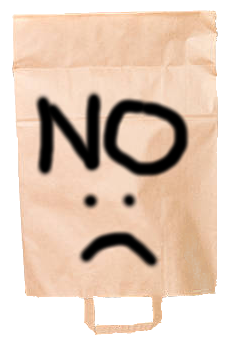
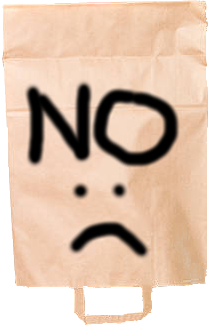
playable on laptop screens, css modified

diff --git a/src/components/board/board.css b/src/components/board/board.css
@@ -12,10 +12,10 @@ background-color: white;
 grid-template-columns: 12.5% 12.5% 12.5% 12.5% 12.5% 12.5% 12.5% 12.5%;
 grid-template-rows: 20% 20% 20% 20% 20%;
 width: 50vw;
-height: 530px;
+height: 60vh;
 align-items: center;
 justify-content: center;
-font-size: 50px;
+font-size: 40px;
 margin: 0 auto;
 z-index: 4;
 /* margin: 20px; */
@@ -43,7 +43,7 @@ z-index: 4;
   grid-row: 3 / 4;
   /* justify-self: ; */
   /* align-self: ; */
-  font-size: 80px;
+  font-size: 60px;
   color: green;
 }
 
@@ -53,7 +53,7 @@ z-index: 4;
   justify-self: start;
   align-self: end;
   color: magenta;
-  font-size: 80px;
+  font-size: 60px;
 }
 
 .board-num-4 {
@@ -62,7 +62,7 @@ z-index: 4;
   justify-self: start;
   align-self: start;
   color: red;
-  font-size: 80px;
+  font-size: 60px;
 }
 
 .board-num-5 {
@@ -76,10 +76,10 @@ z-index: 4;
 .board-num-6 {
   grid-column: 7 / 8;
   grid-row: 4 / 5;
-  justify-self: ;
+  justify-self: center;
   align-self: ;
   color: yellow;
-  font-size: 80px;
+  font-size: 60px;
 }
 
 .board-num-7 {
@@ -88,7 +88,7 @@ z-index: 4;
   justify-self: ;
   align-self: start;
   color: orange;
-  font-size: 70px;
+  font-size: 60px;
 
 }
 
@@ -135,7 +135,7 @@ z-index: 4;
   justify-self: ;
   align-self: ;
   color: hotpink ;
-  font-size: 80px;
+  font-size: 60px;
 
 }
 

diff --git a/src/App.js b/src/App.js
@@ -114,7 +114,7 @@ class App extends Component {
     setTimeout(() => this.setState({img: true, boardImg: true }), 3000);
     setTimeout(() => this.setState({boardImg: false}), 6000);
     setTimeout(() => this.setState({rotateBoard: false}), 9000);
-    setTimeout(() => this.setState({img: false }), 12000);
+    setTimeout(() => this.setState({img: false, speaking: false }), 12000);
   }
 
   isItNumberwang() {
@@ -158,7 +158,7 @@ class App extends Component {
     speechArray.push(" ");
     speechArray.forEach((sentence, idx) => {
       setTimeout(() => this.setState({ speaking: true, saying: sentence }), 2000 * idx);
-      setTimeout(() => console.log(sentence), 2000 * idx);
+      // setTimeout(() => this.setState({ speaking:false }), 2000 * speechArray.length);
     });
     // setTimeout(() => this.setState({speaking: false}), 2000 * speechArray.length)
   }

diff --git a/src/App.css b/src/App.css
@@ -2,7 +2,7 @@
   text-align: center;
   display: grid;
   grid-template-columns: 20% 20% 20% 20% 20%;
-  grid-template-rows: 15% 530px 40px 200px 20px;
+  grid-template-rows: 15% 50vh 40px 200px 20px;
   position: relative;
 }
 
@@ -31,14 +31,16 @@
 .presenter {
   grid-column: 3;
   grid-row: 4;
-  width: 75vw;
+  width: 100vw;
   justify-self: center;
+  margin-top: 50px
   /* align-self: flex-start; */
 }
 
 .rotate-image {
-  height: 550px;
+
   width: 50vw;
+  height: 60vh;
   grid-column: 3;
   grid-row: 2;
   justify-self: center;
@@ -49,12 +51,13 @@
 .winner {
   grid-column: 5;
   grid-row: 2;
-  margin-top: 75px
 }
 
 .bag {
   position: absolute;
-  width: 325px;
+  left:0px;
+  width: 300px;
   grid-column: 1;
   grid-row: 2;
+  margin-right: 10px
 }
